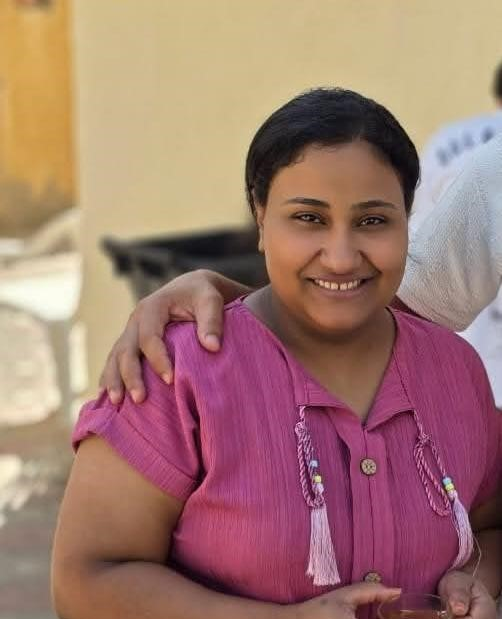
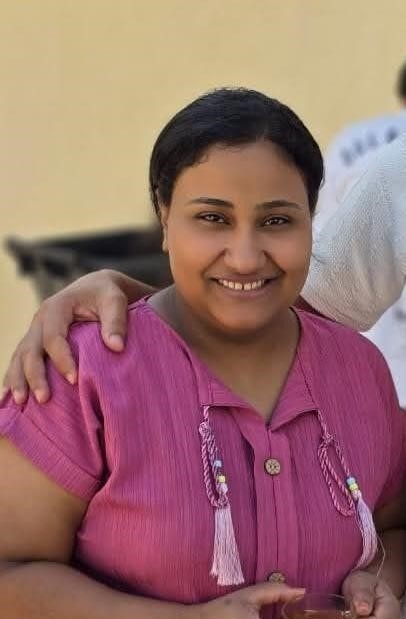
fix names

diff --git a/src/config/servants.ts b/src/config/servants.ts
@@ -29,13 +29,13 @@ export const servantsTitleAr = "الخدام";
 /** Servants of this meeting — empty until this meeting's data is added. */
 export const servants: Servant[] = [
   
-  { file: "ehab youssef.jpg", name: "Ehab Youssef", nameAr: "إيهاب يوسف" },
+  
   { file: "Emad Karam.jpg", name: "Emad Karam", nameAr: "عماد كرم" },
-  { file: "Beshoy saad.jpg", name: "Beshoy saad", nameAr: "بيشوي سعد" },
-  { file: "Jakleen khristan.jpg", name: "Jakleen khristan", nameAr: "چاكلين" },
   { file: "Magdy Nabil.jpg", name: "Magdy Nabil", nameAr: "مجدي نبيل" },
-  { file: "Mervat Nageh.jpg", name: "Mervat Nageh", nameAr: "ميرڤت ناجح" },
+  { file: "Jakleen khristan.jpg", name: "Jakleen khristan", nameAr: "چاكلين خرستان" },
   { file: "Noha Naiem.jpg", name: "Noha Naiem", nameAr: "نهى نعيم" },
+  { file: "Mervat Nageh.jpg", name: "Mervat Nageh", nameAr: "ميرڤت ناجح" },
+  { file: "Beshoy saad.jpg", name: "Beshoy saad", nameAr: "بيشوي سعد" },
   { file: "Andrew Ehab.jpg", name: "Andrew Ehab", nameAr: "أندرو إيهاب" },
   
   
